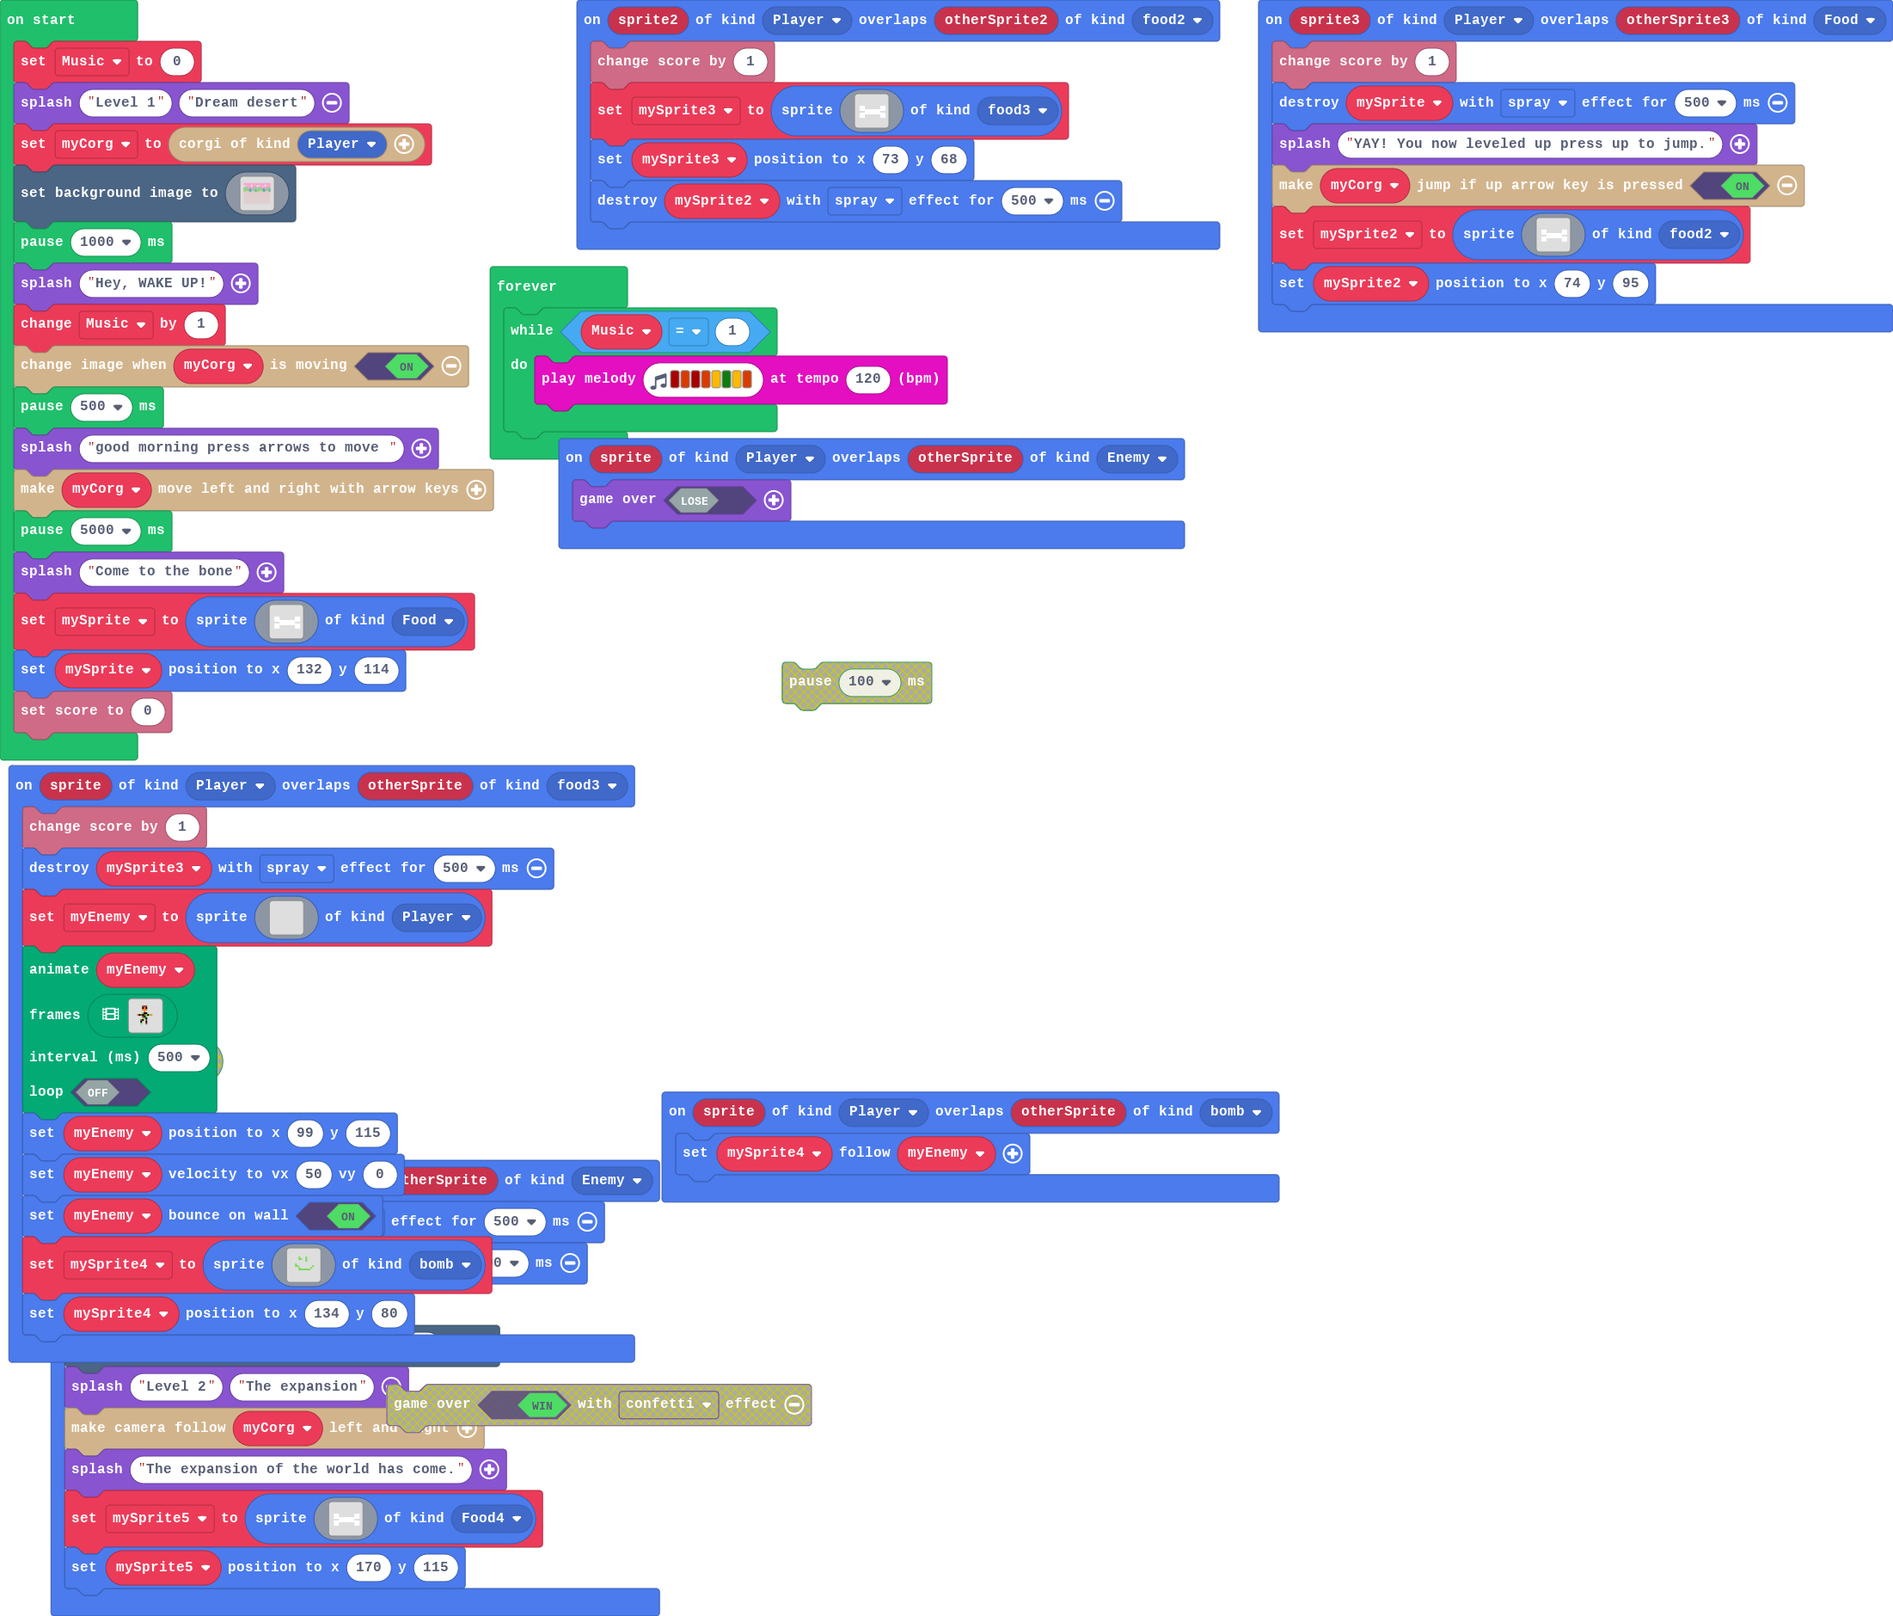
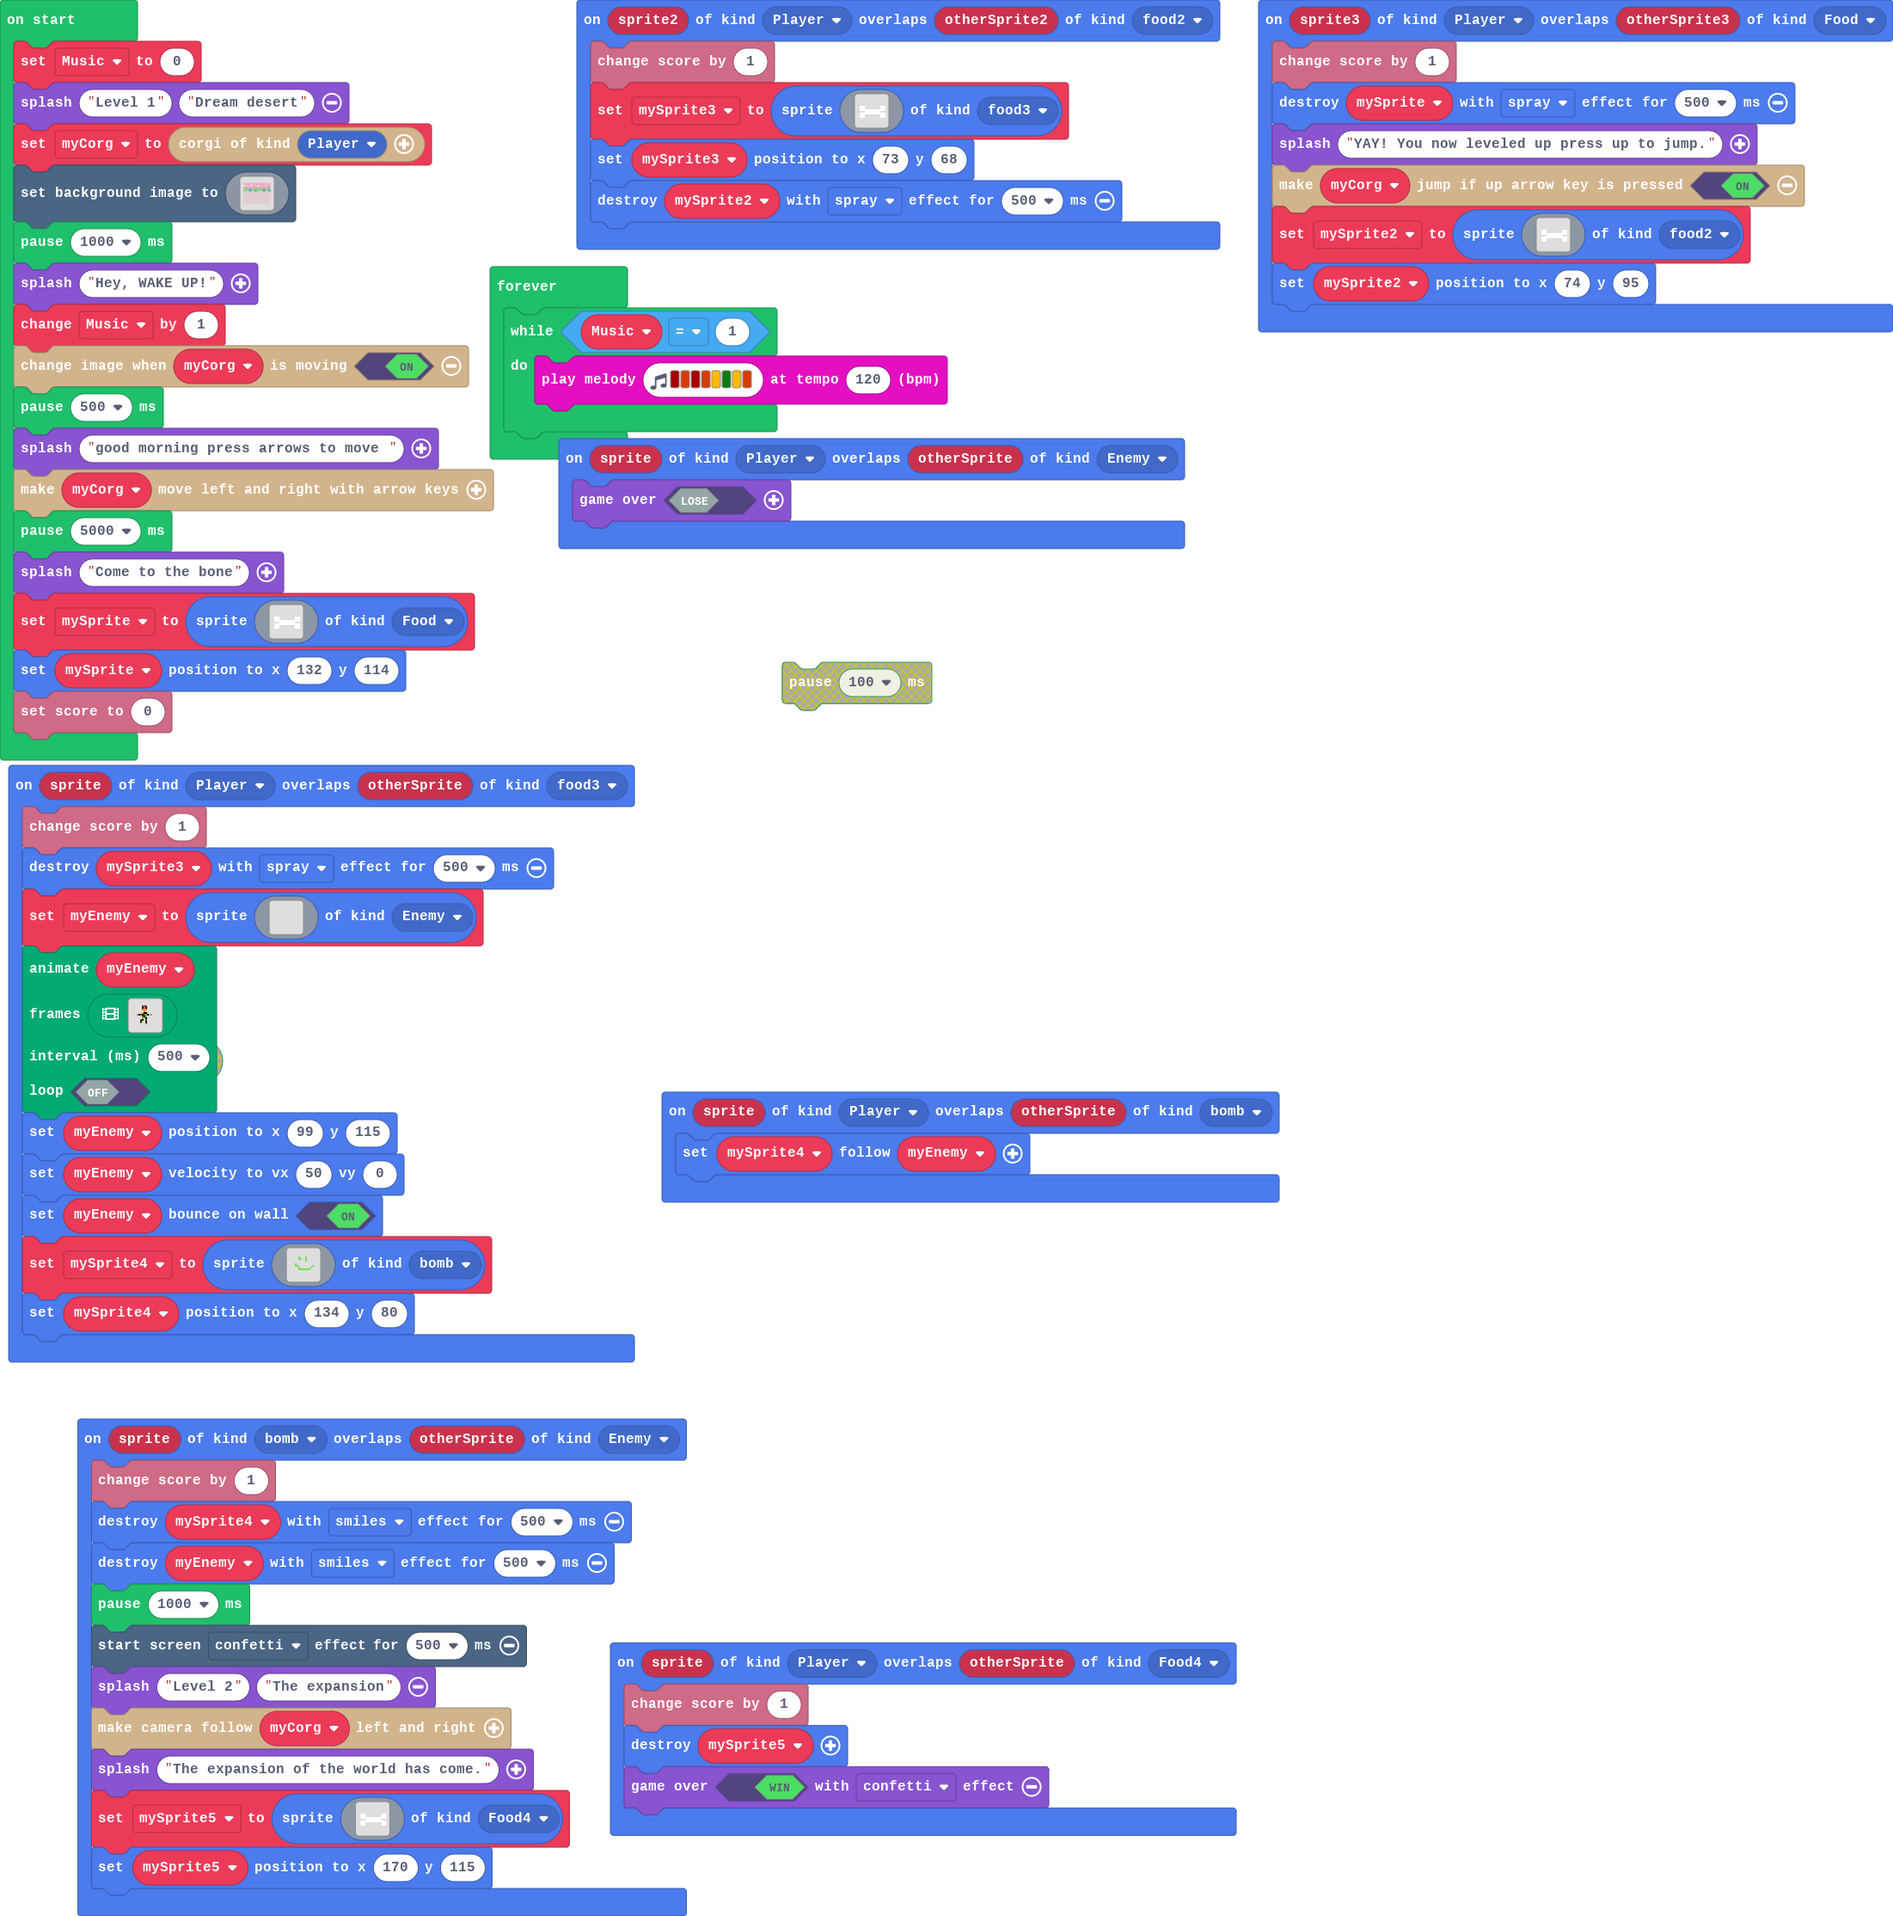
Update main.blocks, main.ts

diff --git a/main.ts b/main.ts
@@ -24,7 +24,7 @@ sprites.onOverlap(SpriteKind.Player, SpriteKind.food3, function (sprite, otherSp
         . . . . . . . . . . . . . . . . 
         . . . . . . . . . . . . . . . . 
         . . . . . . . . . . . . . . . . 
-        `, SpriteKind.Player)
+        `, SpriteKind.Enemy)
     animation.runImageAnimation(
     myEnemy,
     [img`
@@ -88,10 +88,16 @@ sprites.onOverlap(SpriteKind.Player, SpriteKind.food3, function (sprite, otherSp
         `, SpriteKind.bomb)
     mySprite4.setPosition(134, 80)
 })
+sprites.onOverlap(SpriteKind.Player, SpriteKind.Food4, function (sprite, otherSprite) {
+    info.changeScoreBy(1)
+    mySprite5.destroy()
+    game.over(true, effects.confetti)
+})
 sprites.onOverlap(SpriteKind.Player, SpriteKind.bomb, function (sprite, otherSprite) {
     mySprite4.follow(myEnemy)
 })
 sprites.onOverlap(SpriteKind.bomb, SpriteKind.Enemy, function (sprite, otherSprite) {
+    info.changeScoreBy(1)
     mySprite4.destroy(effects.smiles, 500)
     myEnemy.destroy(effects.smiles, 500)
     pause(1000)
